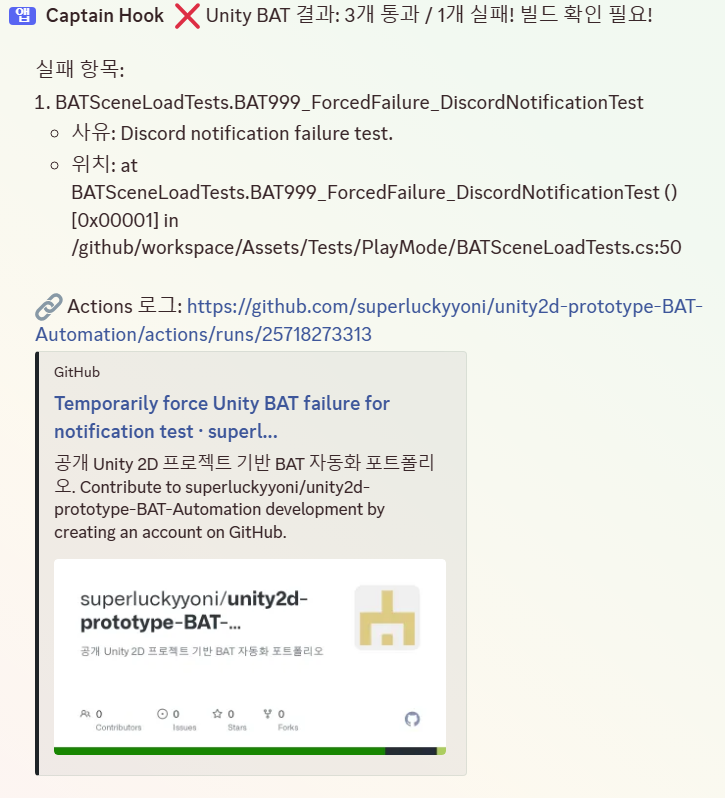
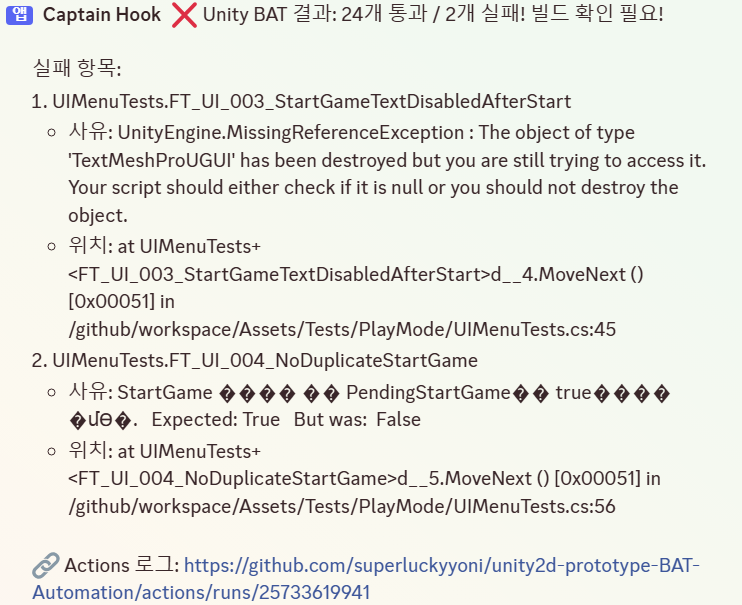
fix Discord screenshots, README.md, Discord Notification

Changed region(s): [[0.0, 0.0, 0.971, 1.0]]

diff --git a/README.md b/README.md
@@ -1,87 +1,180 @@
-# Unity2D BAT Automation
-
+# Unity2D BAT & 기능 테스트 자동화
+ 
 ![Unity PlayMode BAT Test](https://github.com/superluckyyoni/unity2d-prototype-BAT-Automation/actions/workflows/unity-playmode-test.yml/badge.svg)
-
-공개 Unity 2D 플랫포머 프로젝트를 fork하여 BAT(Build Acceptance Test) 자동화를 구현한 포트폴리오입니다.
-
+ 
+공개 Unity 2D 플랫포머 프로젝트를 fork하여 BAT(Build Acceptance Test) 및 기능 테스트 자동화를 구현한 포트폴리오입니다.
+ 
 ---
-
+ 
 ## 포트폴리오 작업 내용
-
-게임 QA로 일하면서 신규 빌드가 나올 때마다 BAT를 수작업으로 반복하는 것이 비효율적이라고 느꼈습니다.
-
-이를 해결하기 위해 공개 Unity 2D 프로젝트를 대상으로 BAT 테스트를 설계하고 자동화 구조를 직접 구현했습니다.
-
+ 
+게임 QA로 일하면서 신규 빌드가 나올 때마다 BAT를 수작업으로 반복하는 것이 비효율적이라고 느꼈습니다.  
+이를 해결하기 위해 공개 Unity 2D 프로젝트를 대상으로 BAT 및 기능 테스트를 설계하고 자동화 구조를 직접 구현했습니다.
+ 
 - Unity Test Framework 기반 PlayMode BAT 테스트 3개 구현
+- 기능 테스트(이동, 전투, UI, 씬 전환) 23개 추가 구현 — 총 26개 TC
+- BAT 통과 후 기능 테스트를 실행하는 단계적 테스트 구조 설계
 - GitHub Actions CI 연동 (push 시 자동 테스트 실행)
 - 디스코드 자동 알림 연동 (성공 시 통과 결과, 실패 시 테스트명/사유/코드 위치 전송)
 - 테스트 과정에서 발견한 컴파일 에러 직접 수정 (`#if UNITY_EDITOR` 조건부 컴파일 적용)
-
 ---
-
+ 
 ## 기술 스택
-
+ 
 - Unity 2022.1.10f1
 - Unity Test Framework (PlayMode)
 - GitHub Actions CI
 - Discord Webhook
 - C#
-
 ---
-
-## 테스트 결과
-
+ 
+## 테스트 구성 및 결과
+ 
+### 테스트 실행 흐름
+ 
+```
+코드 수정 후 GitHub push
+        ↓
+GitHub Actions 자동 감지
+        ↓
+BAT 테스트 실행 → 통과 시 기능 테스트 실행
+        ↓
+Discord 자동 알림
+```
+ 
+### BAT 테스트 (BATSceneLoadTests.cs)
+ 
+신규 빌드가 나왔을 때 가장 먼저 실행하는 기본 동작 확인 테스트입니다.
+ 
 | TC ID | 테스트 항목 | 결과 |
 |---|---|---|
 | BAT001 | TitleScreen 씬 로드 확인 | ✅ Pass |
 | BAT002 | TitleScreen 필수 오브젝트 확인 | ✅ Pass |
 | BAT003 | SampleLevel 씬 로드 확인 | ✅ Pass |
-
-- Local Result: 3/3 Passed
-- CI Result: 3/3 Passed
-
+ 
+### 기능 테스트
+ 
+BAT 통과 후 세부 기능이 올바르게 동작하는지 확인하는 테스트입니다.
+ 
+#### 플레이어 이동 (PlayerMovementTests.cs)
+ 
+| TC ID | 테스트 항목 | 결과 |
+|---|---|---|
+| FTMOV001 | 플레이어 오브젝트 존재 확인 | ✅ Pass |
+| FTMOV002 | 오른쪽 이동 시 X 포지션 증가 확인 | ✅ Pass |
+| FTMOV003 | 왼쪽 이동 시 X 포지션 감소 확인 | ✅ Pass |
+| FTMOV004 | 이동 중 IsMoving 상태 확인 | ✅ Pass |
+| FTMOV005 | 점프 시 Y 속도 양수 확인 | ✅ Pass |
+| FTMOV006 | 점프 중 IsJumping 상태 확인 | ✅ Pass |
+| FTMOV007 | 공중에서 이중 점프 방지 확인 | ✅ Pass |
+ 
+#### 전투/공격 (PlayerCombatTests.cs)
+ 
+| TC ID | 테스트 항목 | 결과 |
+|---|---|---|
+| FTCMB001 | Actor 컴포넌트 존재 확인 | ✅ Pass |
+| FTCMB002 | Thrower 컴포넌트 존재 확인 | ✅ Pass |
+| FTCMB003 | 플레이어 초기 HP 확인 | ✅ Pass |
+| FTCMB004 | 공격 시 투사체 생성 확인 | ✅ Pass |
+| FTCMB005 | 피격 시 HP 감소 확인 | ✅ Pass |
+| FTCMB006 | HP 0 시 사망 처리 확인 | ✅ Pass |
+| FTCMB007 | 피격 후 무적시간 적용 확인 | ✅ Pass |
+ 
+#### UI/메뉴 (UIMenuTests.cs)
+ 
+| TC ID | 테스트 항목 | 결과 |
+|---|---|---|
+| FTUI001 | StartGameText UI 존재 확인 | ✅ Pass |
+| FTUI002 | 씬 로드 시 StartGameText 활성화 확인 | ✅ Pass |
+| FTUI003 | 게임 시작 시 StartGameText 비활성화 확인 | ✅ Pass |
+| FTUI004 | 게임 시작 중복 실행 방지 확인 | ✅ Pass |
+| FTUI005 | BackgroundMusic 할당 확인 | ✅ Pass |
+| FTUI006 | AmbientSoundFX 할당 확인 | ✅ Pass |
+ 
+#### 씬 전환 (SceneTransitionTests.cs)
+ 
+| TC ID | 테스트 항목 | 결과 |
+|---|---|---|
+| FTSCN001 | TitleScreen → SampleLevel 씬 전환 확인 | ✅ Pass |
+| FTSCN002 | SampleLevel buildIndex 확인 | ✅ Pass |
+| FTSCN003 | 씬 전환 후 Player 오브젝트 존재 확인 | ✅ Pass |
+ 
+### 최종 결과
+ 
+| 구분 | TC 수 | 결과 |
+|---|---|---|
+| BAT 테스트 | 3개 | ✅ 전체 통과 |
+| 기능 테스트 | 23개 | ✅ 전체 통과 |
+| **합계** | **26개** | **✅ 26/26 통과** |
+ 
+- Local Result: 26/26 Passed
+- CI Result: 26/26 Passed
 ### GitHub Actions 실행 결과
-
+ 
 ![GitHub Actions Test Result](QA_Docs/Images/github-actions-test-result.png)
-
+ 
 ### 디스코드 자동 알림
-
+ 
 **성공 시**
-
+ 
 ![Discord Success](QA_Docs/Images/discord-success-notification.png)
-
+ 
 **실패 시 (테스트명/사유/코드 위치 포함)**
-
+ 
 ![Discord Failure](QA_Docs/Images/discord-failure-notification.png)
-
+ 
 ---
-
+ 
+## 테스트 설계 시 주요 고려사항
+ 
+### BAT와 기능 테스트 역할 분리
+ 
+BAT는 "빌드가 기본적으로 실행되는가"를 확인하고,  
+기능 테스트는 "세부 기능이 올바르게 동작하는가"를 확인합니다.  
+두 테스트 간 중복 항목이 없도록 설계했습니다.
+ 
+### 오브젝트 탐색 방식
+ 
+`GameObject.Find(이름)` 대신 `GameObject.FindWithTag(태그)`를 사용했습니다.  
+오브젝트 이름은 개발 중 변경될 수 있지만, 태그는 의도적으로 변경하지 않는 한 유지되기 때문입니다.
+ 
+### 씬 로드 방식
+ 
+`SceneManager.LoadScene()` 대신 `SceneManager.LoadSceneAsync()`를 사용했습니다.  
+동기 로드는 완료 보장이 없어 타이밍 문제가 발생할 수 있기 때문입니다.
+ 
+### CI 환경 타이밍 대응
+ 
+로컬과 GitHub Actions 환경은 실행 속도가 달라 타이밍 문제가 발생할 수 있습니다.  
+시간 기반 대기(`WaitForSeconds`) 대신 조건 기반 대기(`WaitUntil`)를 사용해  
+환경에 관계없이 안정적으로 동작하도록 설계했습니다.
+ 
+---
+ 
 ## 발견 및 수정한 이슈
-
+ 
 PlayMode 테스트 실행 중 Editor 전용 API 참조로 인해 컴파일 에러가 발생했습니다.
-
+ 
 수정 대상: `ShadowCaster2DGenerator.cs`, `Singleton.cs`, `Platformer2DAutomator.cs`
-
-`UnityEditor`, `CustomEditor`, `Handles`, `EditorApplication` 등 Editor 전용 API를
+ 
+`UnityEditor`, `CustomEditor`, `Handles`, `EditorApplication` 등 Editor 전용 API를  
 `#if UNITY_EDITOR` 조건부 컴파일로 분리하여 해결했습니다.
-
+ 
 ---
-
+ 
 ## QA 문서
-
+ 
 - [BAT Test Plan](QA_Docs/BAT_TestPlan.md)
 - [BAT Test Cases](QA_Docs/BAT_TestCases.md)
 - [Automation Scope](QA_Docs/Automation_Scope.md)
 - [Test Result](QA_Docs/TestResult.md)
-
 ---
-
+ 
 ## 원본 프로젝트 정보
-
+ 
 - Original Repository: https://github.com/practical-works/unity2d-prototype
 - Unity Version: 2022.1.10f1
 - License: MIT License
 - Original Project: Prototype - 2D Platformer Game
-
-본 레포지토리는 원본 프로젝트를 fork하여 QA 자동화 포트폴리오 목적으로 작업한 것입니다.
+본 레포지토리는 원본 프로젝트를 fork하여 QA 자동화 포트폴리오 목적으로 작업한 것입니다.  
 게임 개발물이 아닌 테스트 설계 및 자동화 구현이 주요 작업 범위입니다.